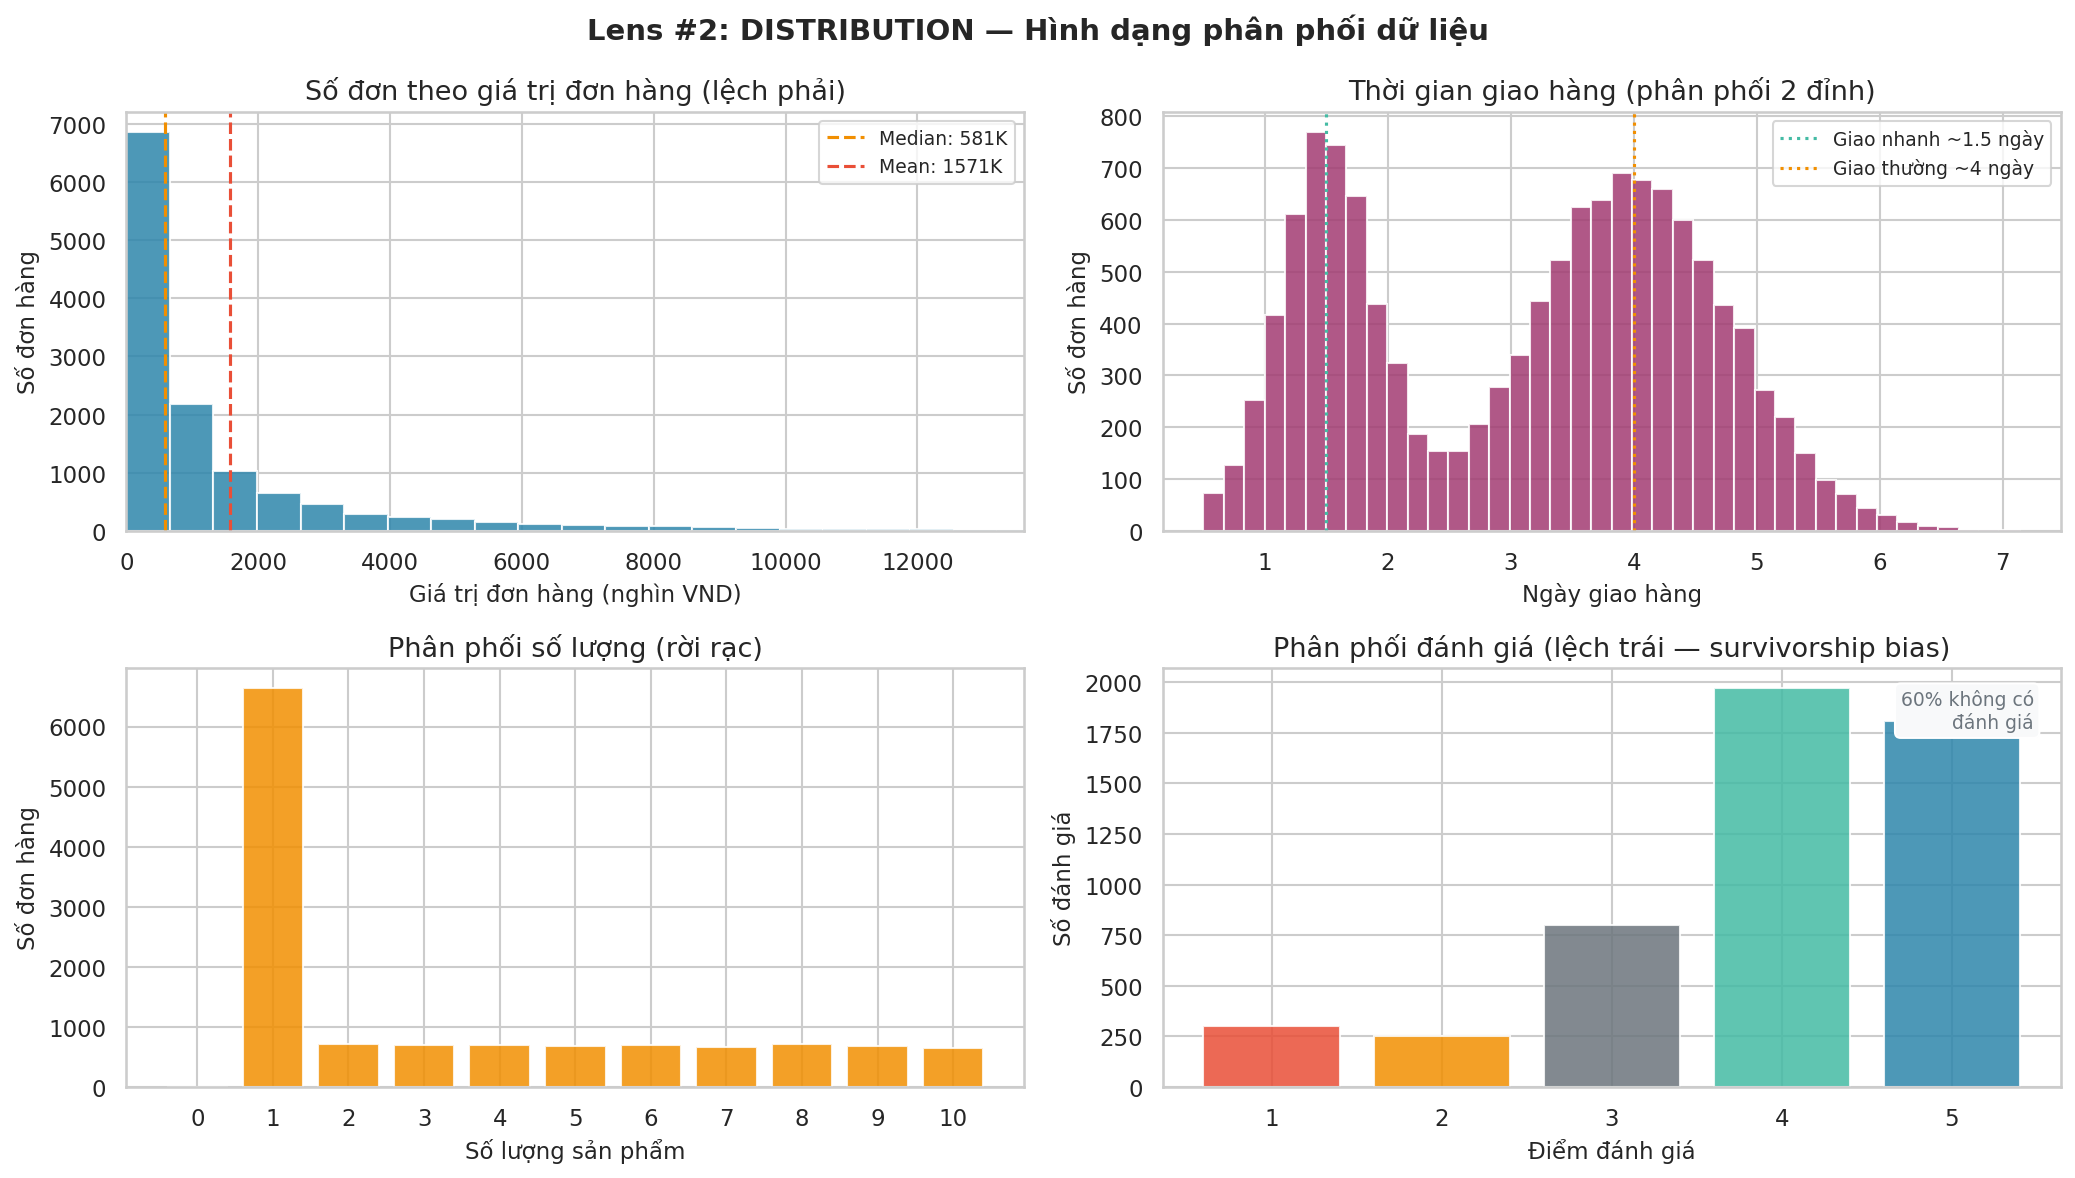
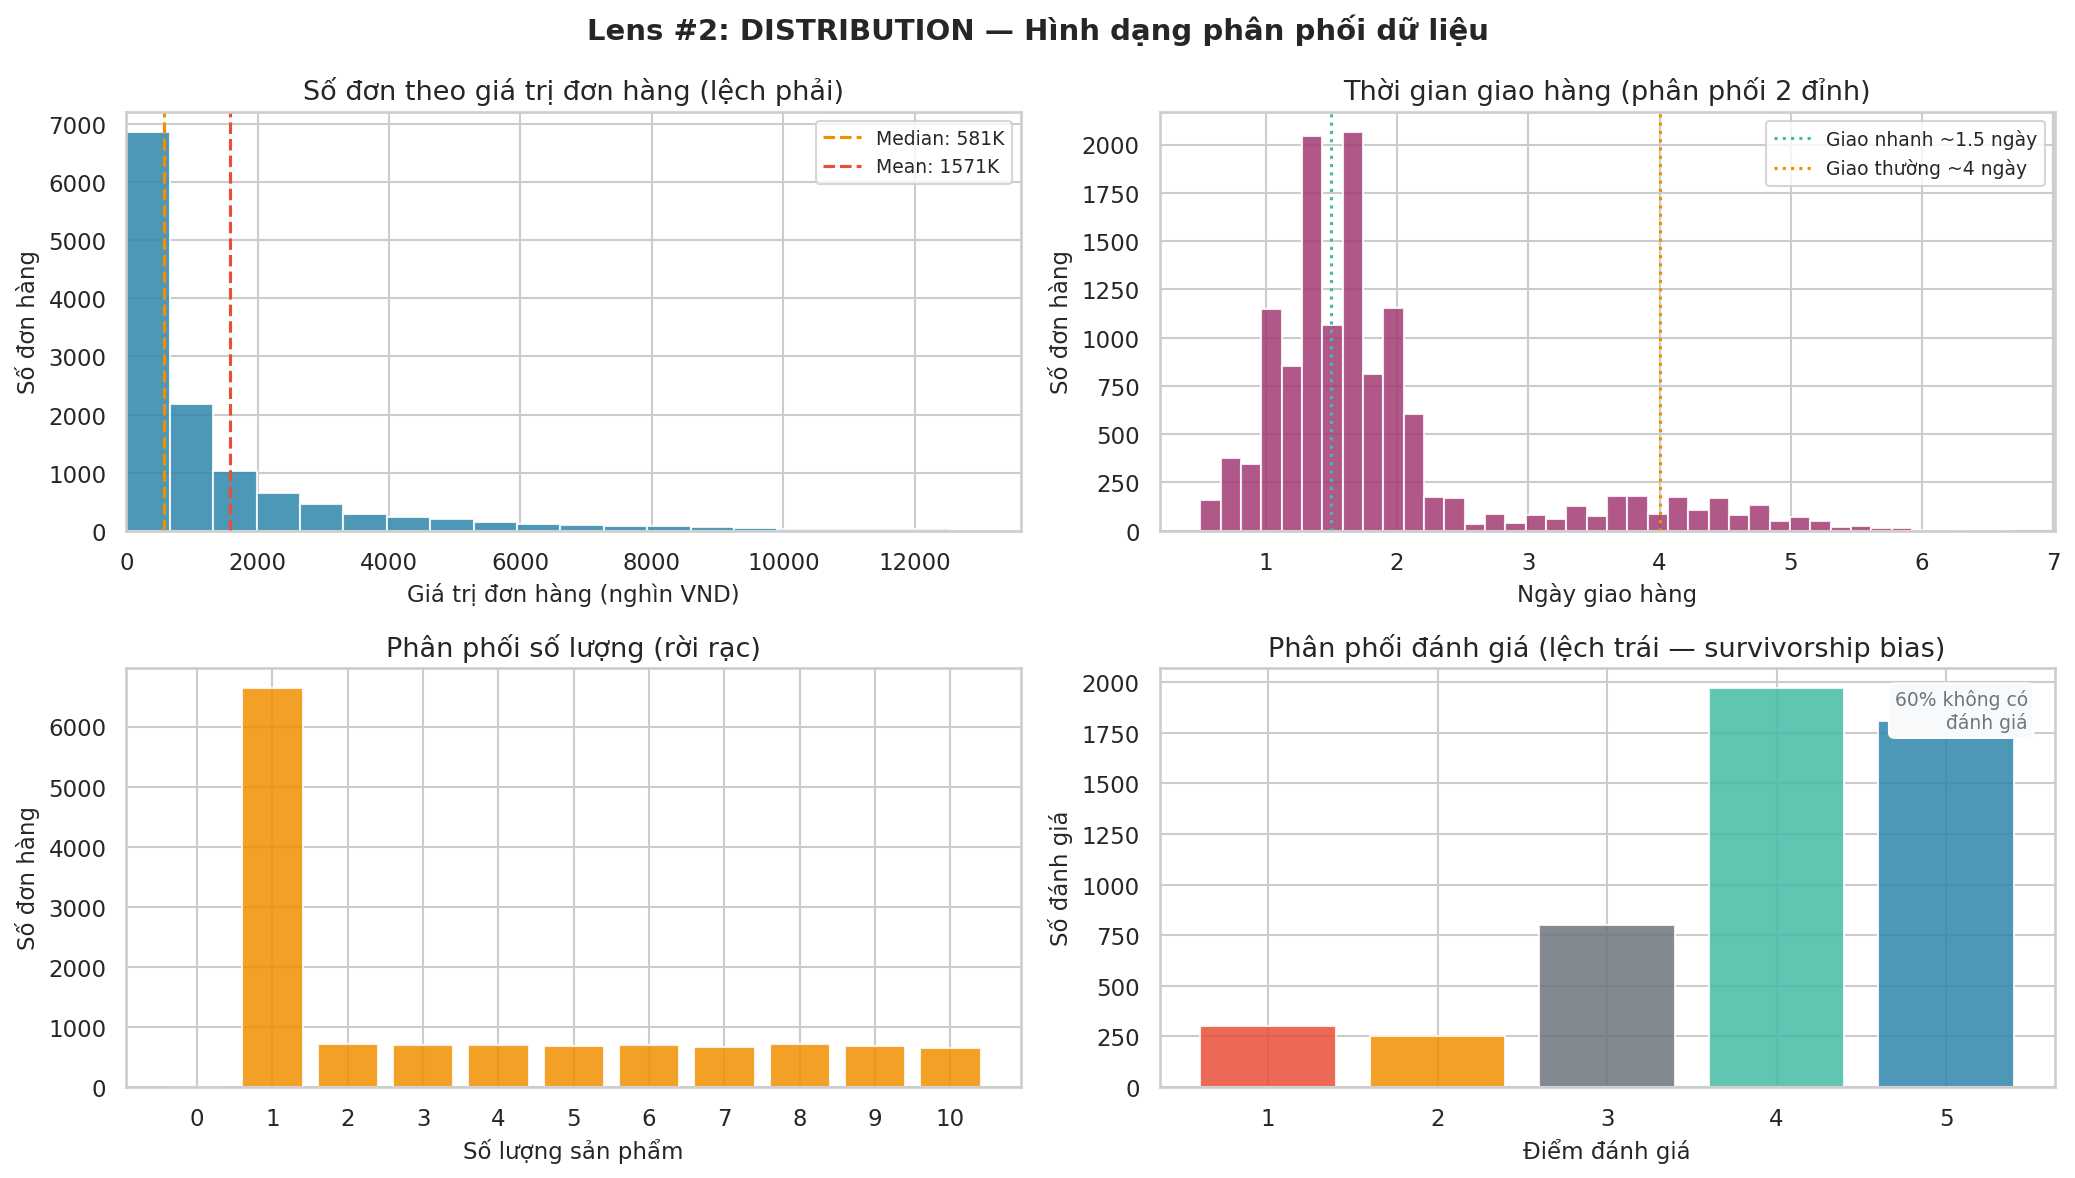
fix: add delivery_days column to CSV, chart reads from real data
Previously chart-02 faked delivery time with np.random.normal().
Now delivery_days is generated in data_generators.py based on city
(HCM/HN ~1.5 days, others ~4 days) and stored in CSV.

diff --git a/scripts/shared/data_generators.py b/scripts/shared/data_generators.py
@@ -140,6 +140,15 @@ def generate_mar2024_orders(n: int = 12_847) -> pd.DataFrame:
         else:
             ratings.append(float(RNG.choice([3, 4, 5], p=[0.15, 0.45, 0.40])))
 
+    # delivery days: bimodal — HCM/HN ~1.5 days, others ~4 days
+    delivery_days = np.zeros(n)
+    for i, city in enumerate(cities):
+        if city in ["TP.HCM", "Hà Nội"]:
+            delivery_days[i] = max(0.5, RNG.normal(1.5, 0.4))
+        else:
+            delivery_days[i] = max(1.0, RNG.normal(4.0, 0.8))
+    delivery_days = np.round(delivery_days, 1)
+
     df = pd.DataFrame({
         "order_id": [f"ORD{str(i+1).zfill(6)}" for i in range(n)],
         "customer_id": [f"CUS{str(RNG.integers(1, 28001)).zfill(6)}" for _ in range(n)],
@@ -153,6 +162,7 @@ def generate_mar2024_orders(n: int = 12_847) -> pd.DataFrame:
         "city": cities,
         "quan_huyen": _make_quanhuyen(pd.Series(cities)),
         "status": statuses,
+        "delivery_days": delivery_days,
         "rating": ratings,
     })
     return df

diff --git a/scripts/ch01/charts.py b/scripts/ch01/charts.py
@@ -88,14 +88,8 @@ def chart_02_distribution(df: pd.DataFrame) -> None:
     axes[0, 0].legend(fontsize=9)
     axes[0, 0].set_xlim(0, rev.quantile(0.99) / 1_000)
 
-    # 2. Delivery time (simulated bimodal: standard 3-5d + express 1-2d)
-    np.random.seed(42)
-    n = len(df)
-    delivery = np.concatenate([
-        np.random.normal(4, 0.8, int(n * 0.65)),   # standard
-        np.random.normal(1.5, 0.4, int(n * 0.35)),  # express
-    ])
-    delivery = np.clip(delivery, 0.5, 10)
+    # 2. Delivery time — from CSV column delivery_days
+    delivery = df["delivery_days"].dropna()
     axes[0, 1].hist(delivery, bins=40, color=PALETTE["secondary"], edgecolor="white", alpha=0.85)
     axes[0, 1].set_xlabel("Ngày giao hàng")
     axes[0, 1].set_ylabel("Số đơn hàng")
